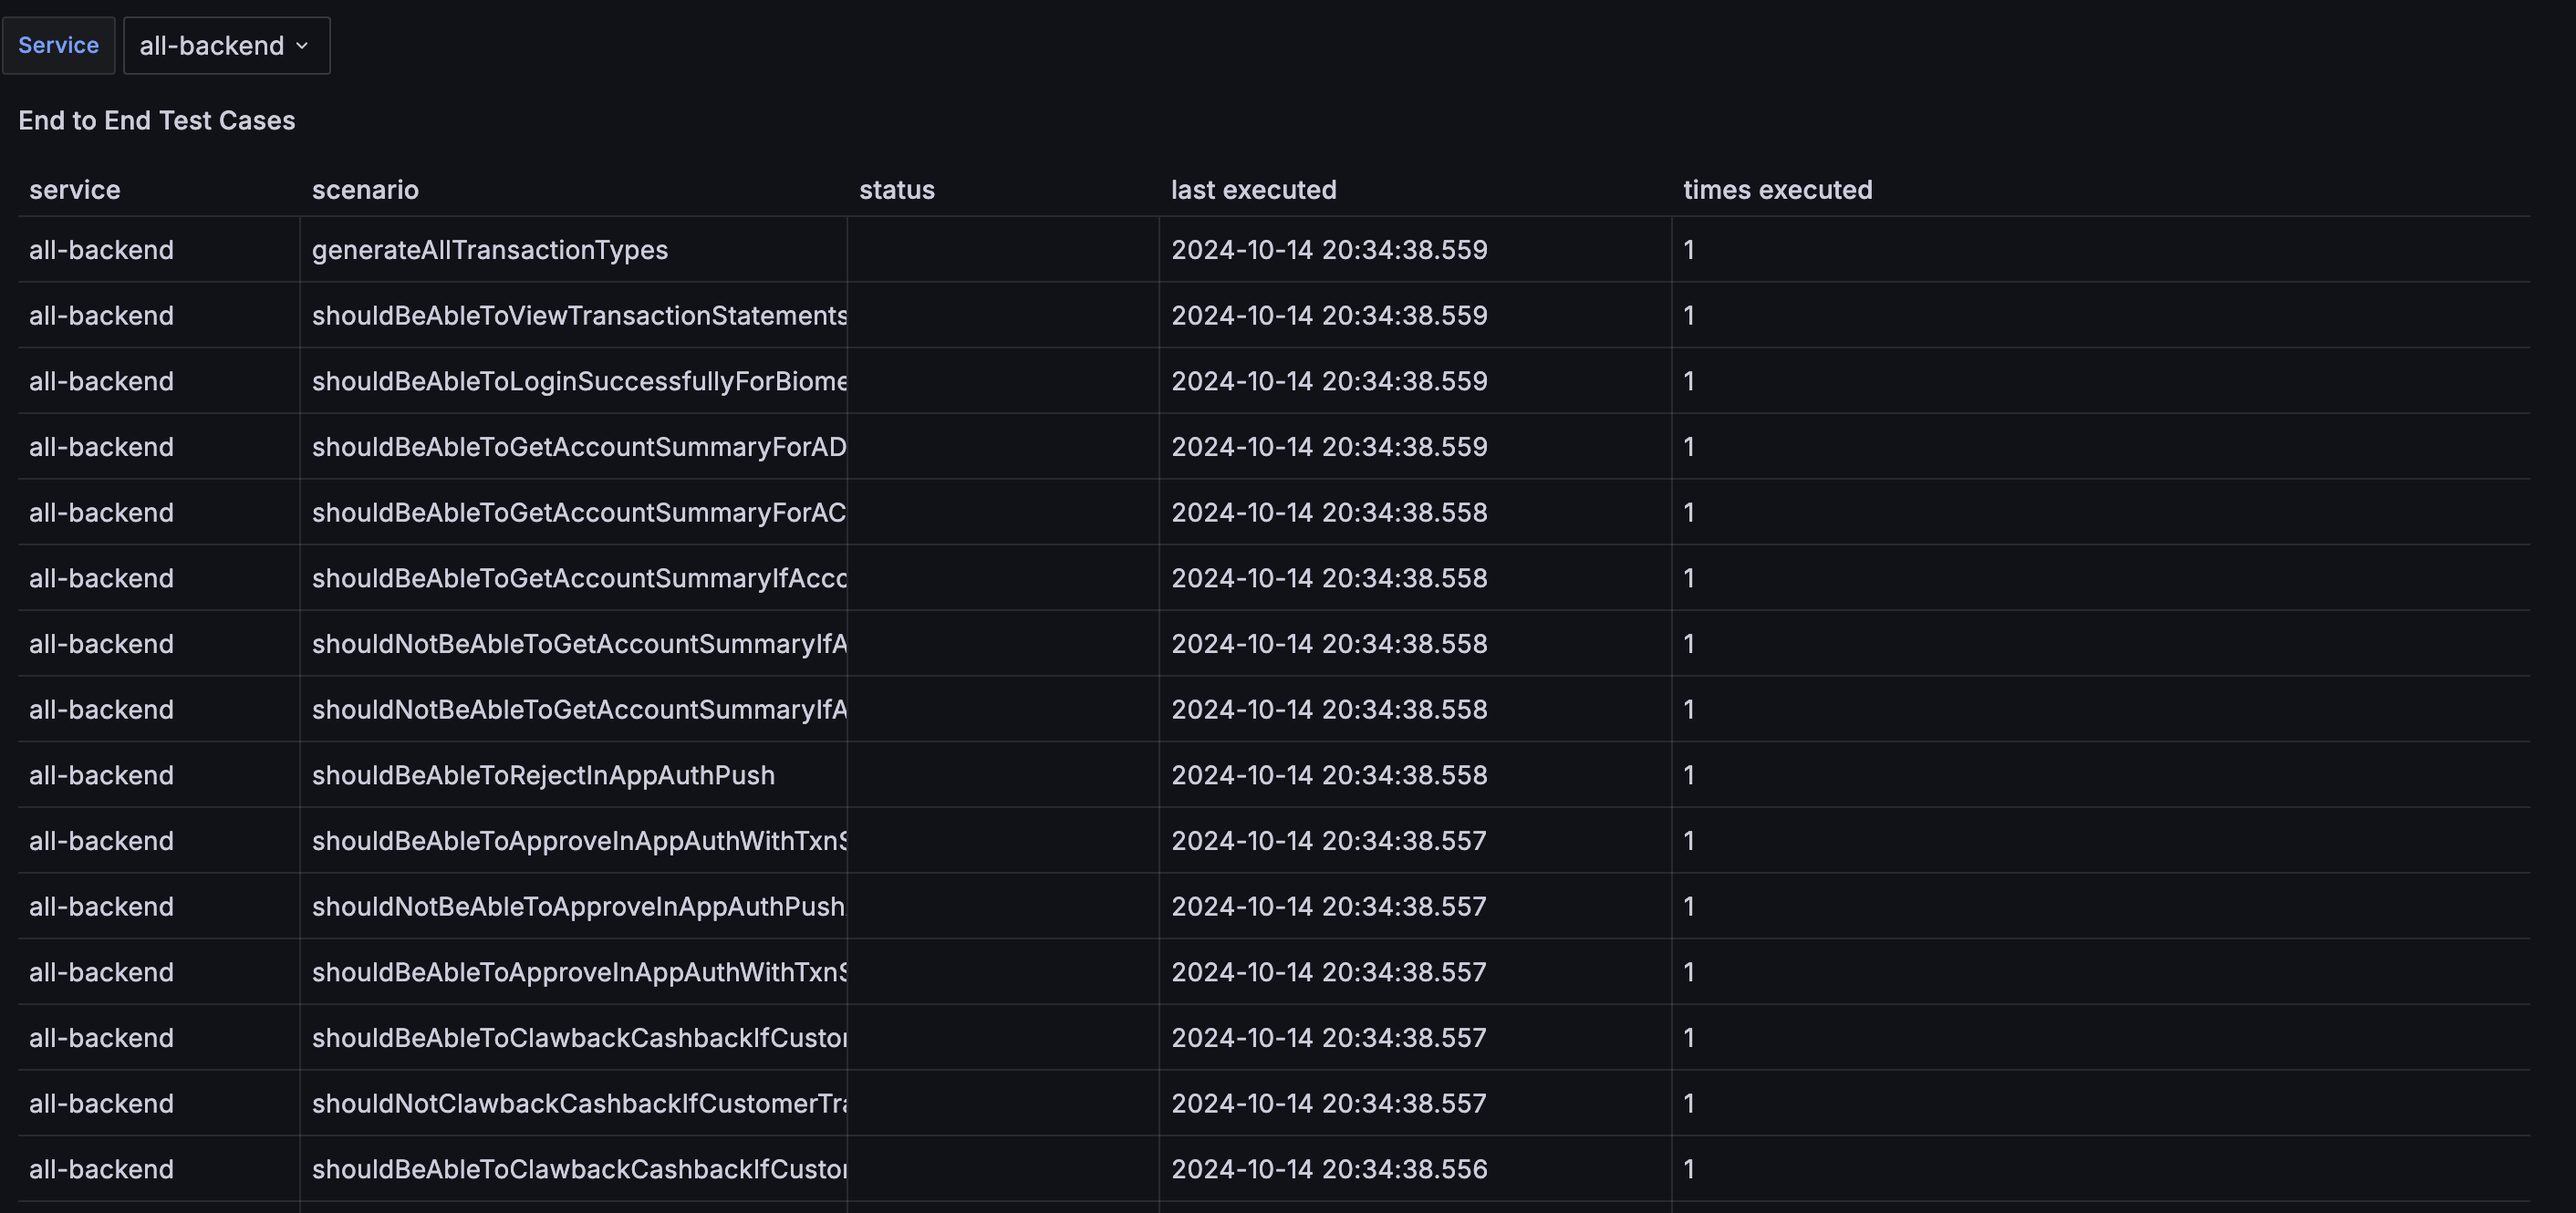
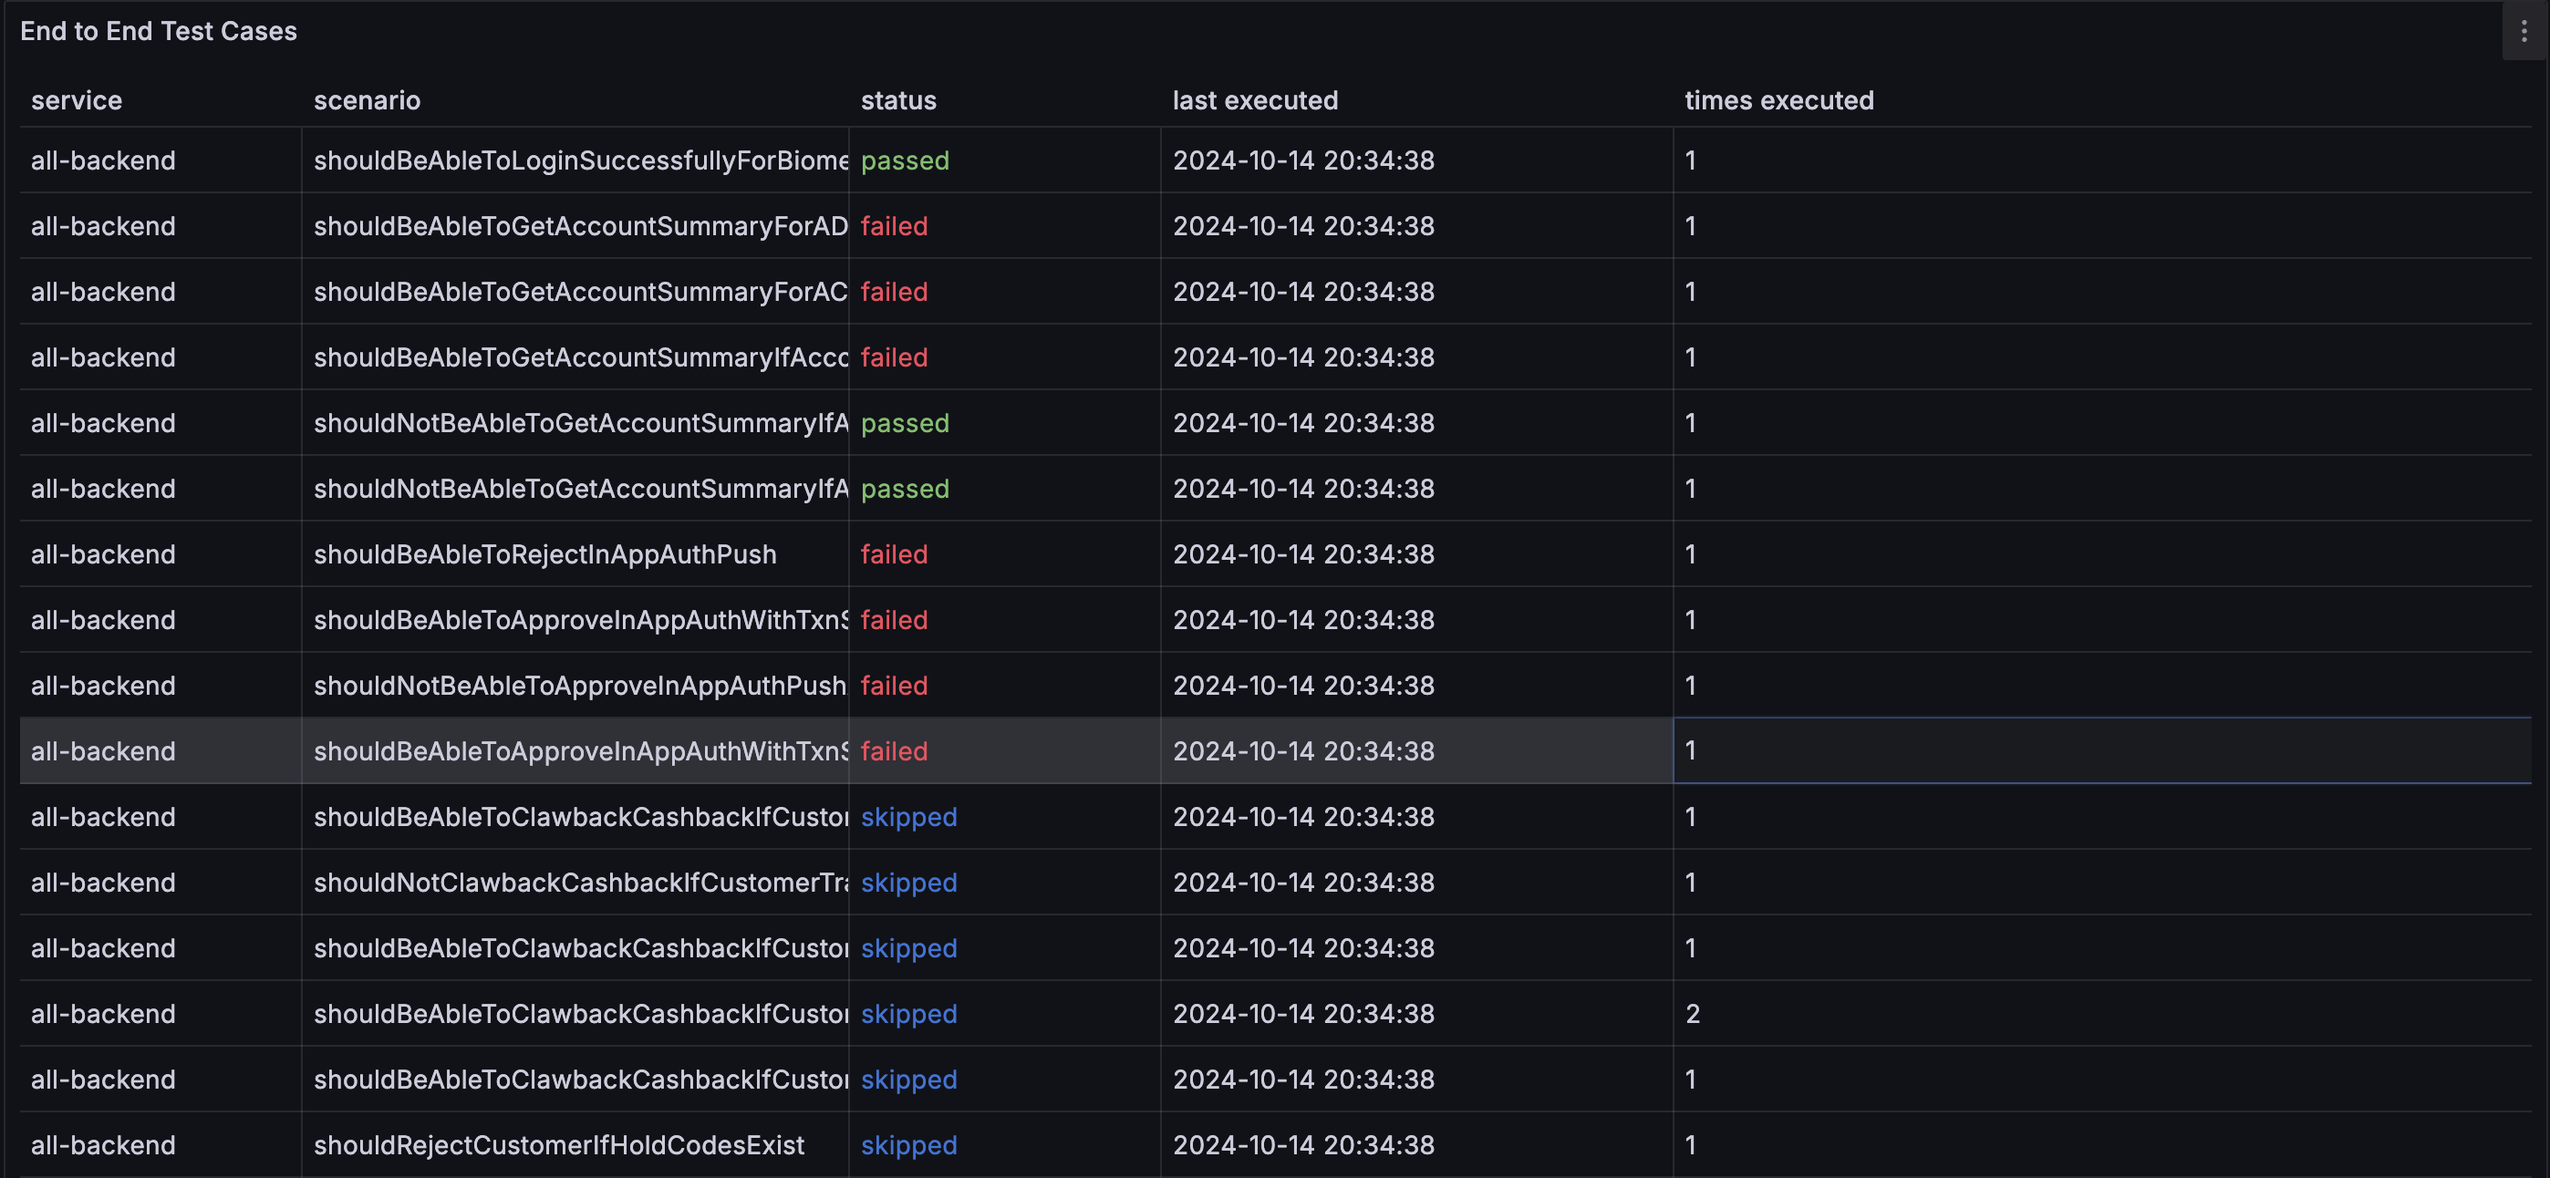
updated readme

diff --git a/readMe.md b/readMe.md
@@ -38,14 +38,14 @@ Junit
 `
 
 # Params Description
-`ci_job_id` Job ID generated by the CI tool used
-`environment` Environment of test execution
-`jira_project` Name of the Jira Project against which traceability needs to be captured
-`service` Name of the microservice for which tests were executed
-`report_format` Must be junit for now. Tool can be extended to support other report formats
-`test_type` Must be one of unit, contract, integration or e2e
-`coverage` test coverage
-`report_file` Path of the actual junit report generated
+1. `ci_job_id` Job ID generated by the CI tool used
+2. `environment` Environment of test execution
+3. `jira_project` Name of the Jira Project against which traceability needs to be captured
+4. `service` Name of the microservice for which tests were executed
+5. `report_format` Must be junit for now. Tool can be extended to support other report formats
+6. `test_type` Must be one of unit, contract, integration or e2e
+7. `coverage` test coverage
+8. `report_file` Path of the actual junit report generated
 
 # Dashboard
 
@@ -55,7 +55,7 @@ All builds is a table helps track the quality of different builds by showing how
 were run, how many passed, failed, or were skipped
 
 ## End to End Tests
-List down all the end to end tests on the basis of the service to track flakiness.
+List down all the end to end tests on the basis of the service to track flakiness. Shows the status of latest test execution.
 
 ## Service Level Summary
 
